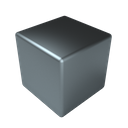
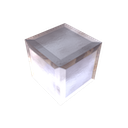
[cube] update images

diff --git a/src/views/containers/ModelEditor/ModelEditor.jsx b/src/views/containers/ModelEditor/ModelEditor.jsx
@@ -195,7 +195,7 @@ class _ModelEditor extends React.Component {
 
         <div className={'model-editor__container'}>
 
-          <HeaderBar size={Container.sizes.BIG} label={_t('build_cubegon')} onBackClicked={() => {}}/>
+          <HeaderBar size={Container.sizes.BIG} label={_t('build_cubegon')} onBackClicked={() => {this.props.history.goBack()}}/>
           <Container size={Container.sizes.BIG} className={'main-tool'}>
 
             <div className={'model-editor__tool-bar'}>
@@ -318,7 +318,7 @@ class _ModelEditor extends React.Component {
                 </div>
                 {['diamond', 'glass', 'gold', 'iron', 'plastic', 'silver'].map((type, idx) => (
                   <div key={idx} className={'cube'} tooltip={_t(type)} tooltip-position="bottom">
-                    <img src={require(`../../../shared/img/cubes/${type}.png`)}/>
+                    <img src={require(`../../../shared/img/cubegoes/${'001'}.png`)}/>
                     50
                   </div>
                 ))}

diff --git a/src/views/components/CubegonCard/CubegonCard.jsx b/src/views/components/CubegonCard/CubegonCard.jsx
@@ -21,9 +21,9 @@ class CubegonCard extends React.Component {
 
     return(
       <div className={`cubegon-card__container ${className && className}`}>
-        <img src={require(`../../../shared/img/cubes/${'diamond'}.png`)}/>
-        <img className={'type__image'} src={require(`../../../shared/img/cubes/${'diamond'}.png`)}/>
-        <img className={'shopping__image'} src={require(`../../../shared/img/cubes/${'diamond'}.png`)}/>
+        <img src={require(`../../../shared/img/cubegoes/${'001'}.png`)}/>
+        <img className={'type__image'} src={require(`../../../shared/img/cubegoes/${'001'}.png`)}/>
+        <img className={'shopping__image'} src={require(`../../../shared/img/cubegoes/${'001'}.png`)}/>
 
           <div className="stats__container">
             <div className="cubegoes">

diff --git a/src/views/containers/ModelEditor/ColorTool/ColorTool.scss b/src/views/containers/ModelEditor/ColorTool/ColorTool.scss
@@ -5,16 +5,15 @@
 
 .color-tool {
   display: flex;
+  justify-content: center;
 
   .color-tool__list {
     display: flex;
-    flex-grow: 1;
     flex-wrap: wrap;
-    max-width: calc(40px * 8);
   }
 
   .color-tool__cell {
-    width: calc(100% / 8);
+    width: 40px;
     cursor: pointer;
     border: 1px solid transparent;
     box-sizing: border-box;
